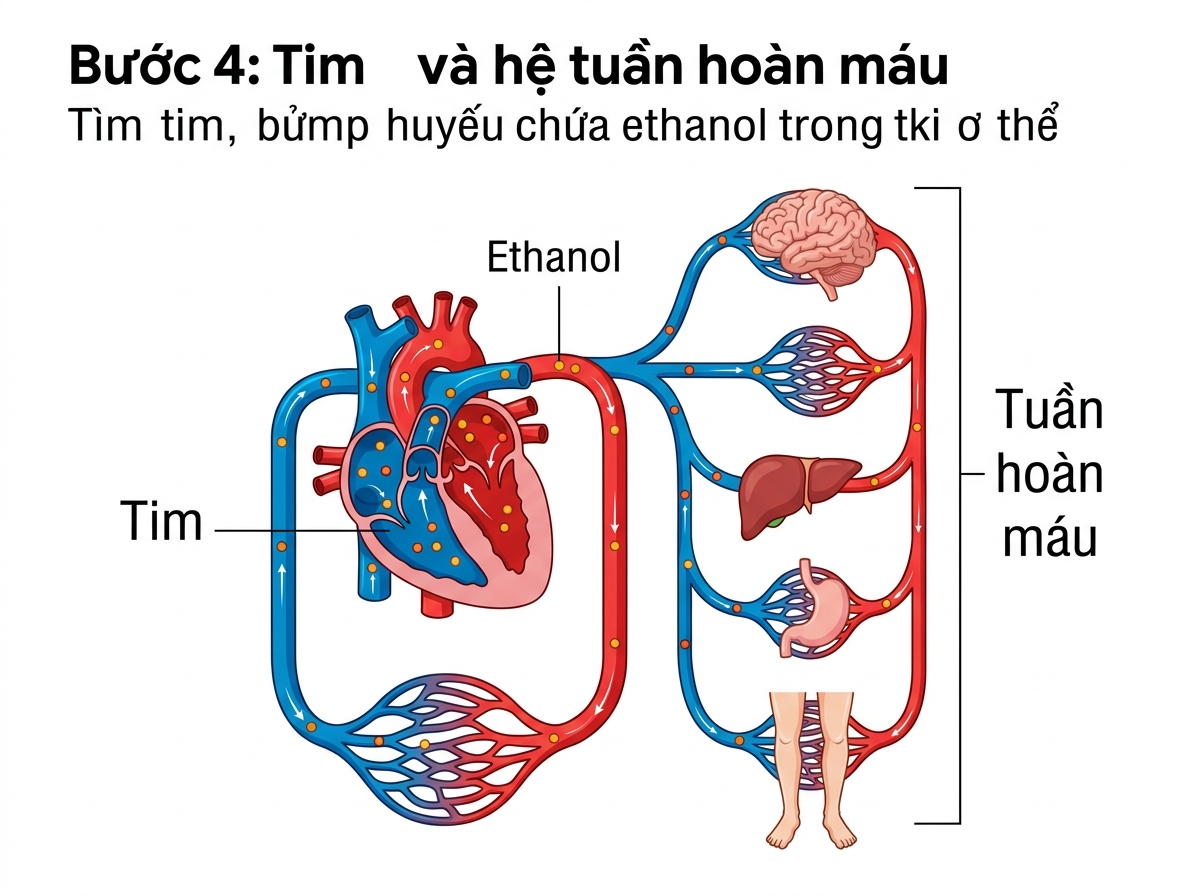
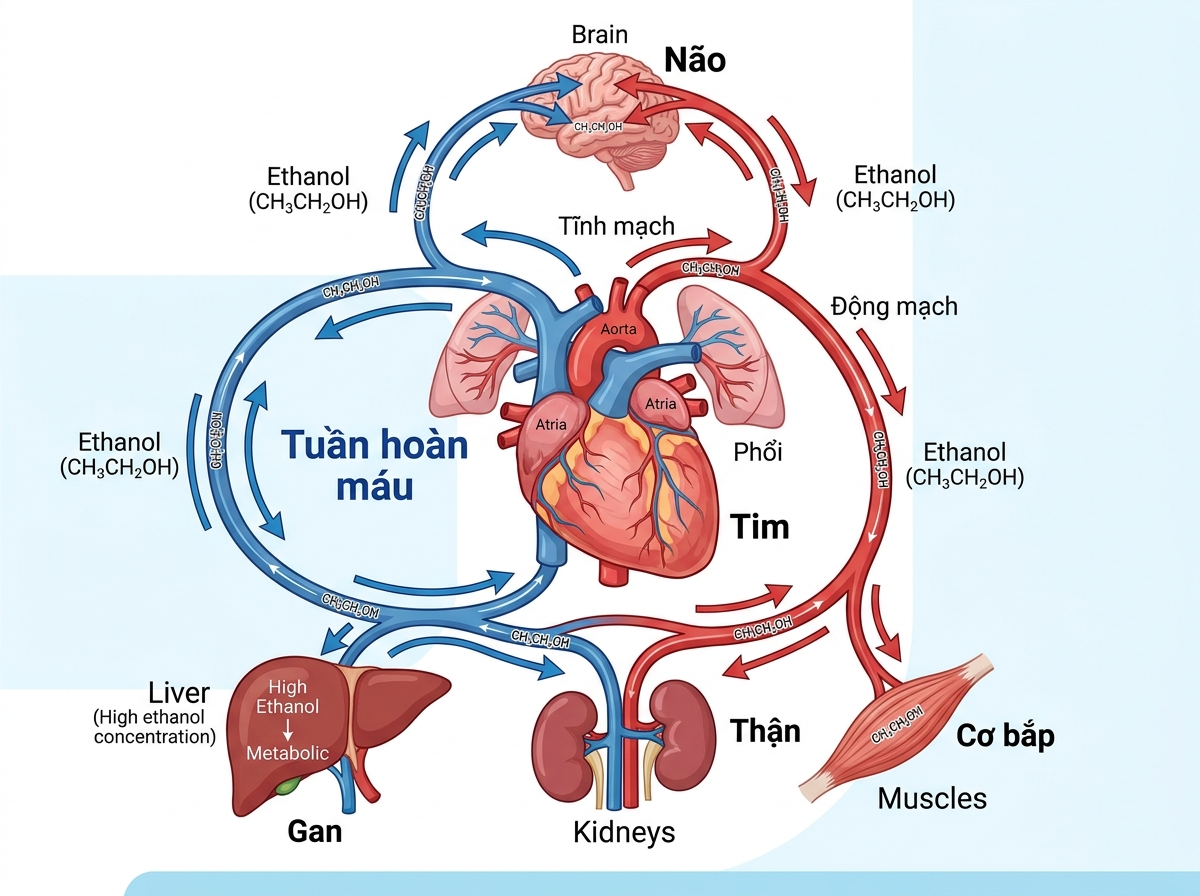
fix: correct 3 Vietnamese spelling errors + replace garbled step4 image
HTML typos fixed:
1. GABA slide: &#7168;c (wrong Batak entity) → &#7913;c = 'ức chế thần kinh'
2. Tiểu não effect: ng\u1ecfng (ngởng) → ng\u1ecdng = 'ngọng' (nói ngọng)
3. Ethanol step4 caption: chứ yếu (\u1ee9) → chủ yếu (\u1ee7) = 'chủ yếu'

Image replaced:
- images/ethanol_step4.jpg: regenerated clean medical circulatory
  system diagram (removes garbled text 'Tìm tìm, bụmp huyếu...'
  that was burned into the old image)

diff --git a/index.html b/index.html
@@ -438,7 +438,7 @@
       <div class="nt-row">
         <div class="nt-row-item"><div class="di" style="background:var(--cyan)"></div><p>GABA g&#7855;n v&#224;o th&#7909; th&#7875; <strong>GABA-A</strong> tr&#234;n neuron nh&#7853;n</p></div>
         <div class="nt-row-item"><div class="di" style="background:var(--cyan)"></div><p>M&#7903; k&#234;nh cho <strong>ion Cl&#8315;</strong> &#273;i v&#224;o t&#7871; b&#224;o</p></div>
-        <div class="nt-row-item"><div class="di" style="background:var(--cyan)"></div><p>&#8594; <strong>Gi&#7843;m</strong> kh&#7843; n&#259;ng neuron ph&#225;t &#273;i&#7879;n th&#7871; &#8594; &#7168;c ch&#7871; th&#7847;n kinh</p></div>
+        <div class="nt-row-item"><div class="di" style="background:var(--cyan)"></div><p>&#8594; <strong>Gi&#7843;m</strong> kh&#7843; n&#259;ng neuron ph&#225;t &#273;i&#7879;n th&#7871; &#8594; &#7913;c ch&#7871; th&#7847;n kinh</p></div>
       </div>
       <div class="nt-effect eff-cyan">&#9878;&#65039; Duy tr&#236; <strong>c&#226;n b&#7857;ng ho&#7841;t &#273;&#7897;ng th&#7847;n kinh</strong></div>
     </div>
@@ -851,7 +851,7 @@
       img:'images/hippocampus.png', effectColor:'#00f5d4' },
     { name:'Ti\u1ec3u n\u00e3o', en:'Cerebellum', emoji:'\uD83E\uDD38', color:'#7c3aed',
       fn:'\u0110i\u1ec1u ch\u1ec9nh th\u0103ng b\u1eb1ng \u00b7 Ph\u1ed1i h\u1ee3p c\u01a1 \u00b7 \u0110\u1ed9 ch\u00ednh x\u00e1c v\u1eadn \u0111\u1ed9ng',
-      effect:'\u0110i lo\u1ea1ng cho\u1ea1ng \u00b7 C\u1ea7m n\u1eafm k\u00e9m \u00b7 N\u00f3i ng\u1ecfng. D\u1ec5 ng\u00e3 v\u00e0 tai n\u1ea1n.',
+      effect:'\u0110i lo\u1ea1ng cho\u1ea1ng \u00b7 C\u1ea7m n\u1eafm k\u00e9m \u00b7 N\u00f3i ng\u1ecdng. D\u1ec5 ng\u00e3 v\u00e0 tai n\u1ea1n.',
       img:'images/cerebellum_anatomy_real.png', effectColor:'#7c3aed' },
     { name:'Th\u00e2n n\u00e3o', en:'Brainstem', emoji:'\uD83D\uDC93', color:'#dc2626',
       fn:'Duy tr\u00ec th\u1ee9c t\u1ec9nh \u00b7 \u0110i\u1ec1u h\u00f2a nh\u1ecbp th\u1edf \u00b7 Nh\u1ecbp tim',
@@ -918,7 +918,7 @@
       img:'images/ethanol_step3.jpg' },
     { icon:'\u2665', name:'Tu\u1ea7n ho\u00e0n', color:'#e74c3c',
       desc:'Ethanol v\u00e0o m\u00e1u, qua gan (ch\u1ea5t ch\u1edb) v\u00e0 \u0111\u01b0\u1ee3c v\u1eadn chuy\u1ec3n kh\u1eafp c\u01a1 th\u1ec3.',
-      caption:'\uD83E\uDDA0 Gan ch\u1ee9 y\u1ebfu lo\u1ea1i Ethanol (ADH enzyme) nh\u01b0ng c\u00f3 gi\u1edbi h\u1ea1n ~1 \u0111\u01a1n v\u1ecb/gi\u1edd.',
+      caption:'\uD83E\uDDA0 Gan ch\u1ee7 y\u1ebfu lo\u1ea1i Ethanol (ADH enzyme) nh\u01b0ng c\u00f3 gi\u1edbi h\u1ea1n ~1 \u0111\u01a1n v\u1ecb/gi\u1edd.',
       img:'images/ethanol_step4.jpg' },
     { icon:'\uD83E\uDDE0', name:'N\u00e3o b\u1ed9', color:'#9b59b6',
       desc:'Ethanol v\u01b0\u1ee3t h\u00e0ng r\u00e0o m\u00e1u-n\u00e3o (BBB) nh\u1edd ph\u00e2n t\u1eed nh\u1ecf, tan trong c\u1ea3 n\u01b0\u1edbc v\u00e0 m\u1ee1.',
